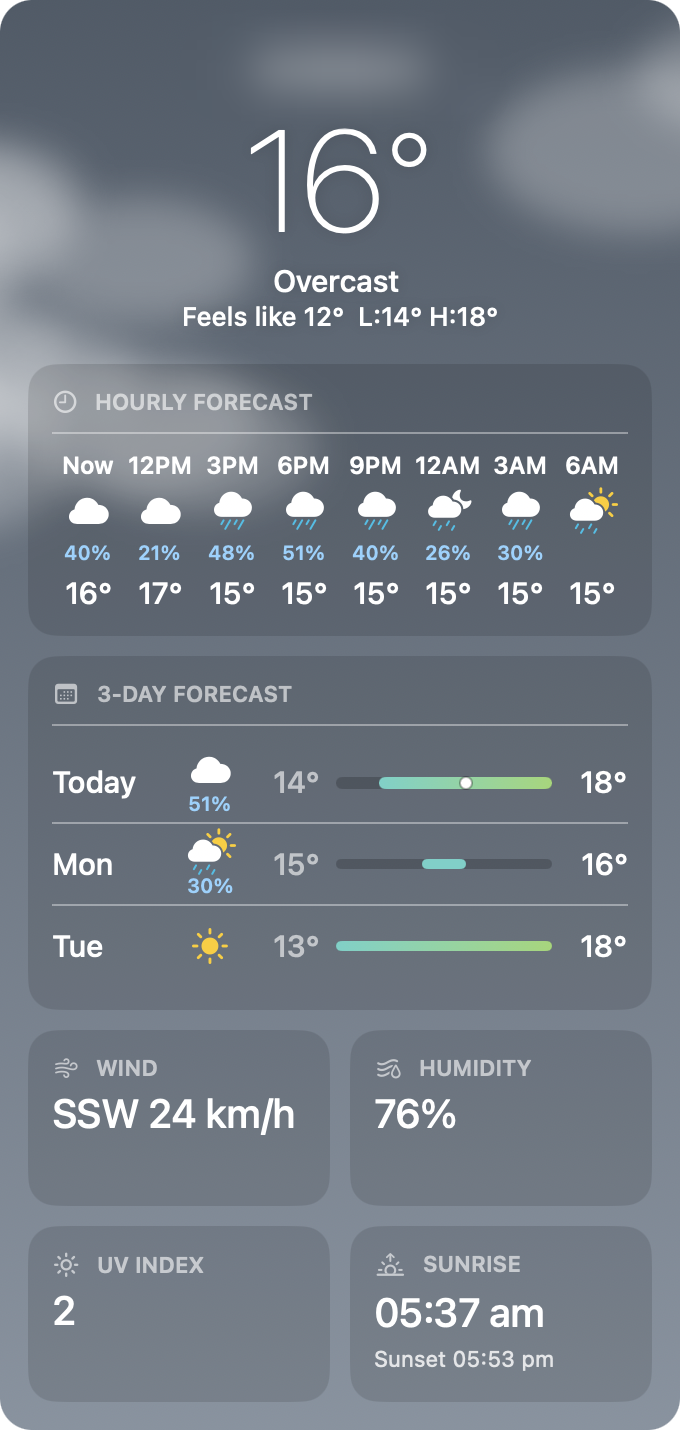
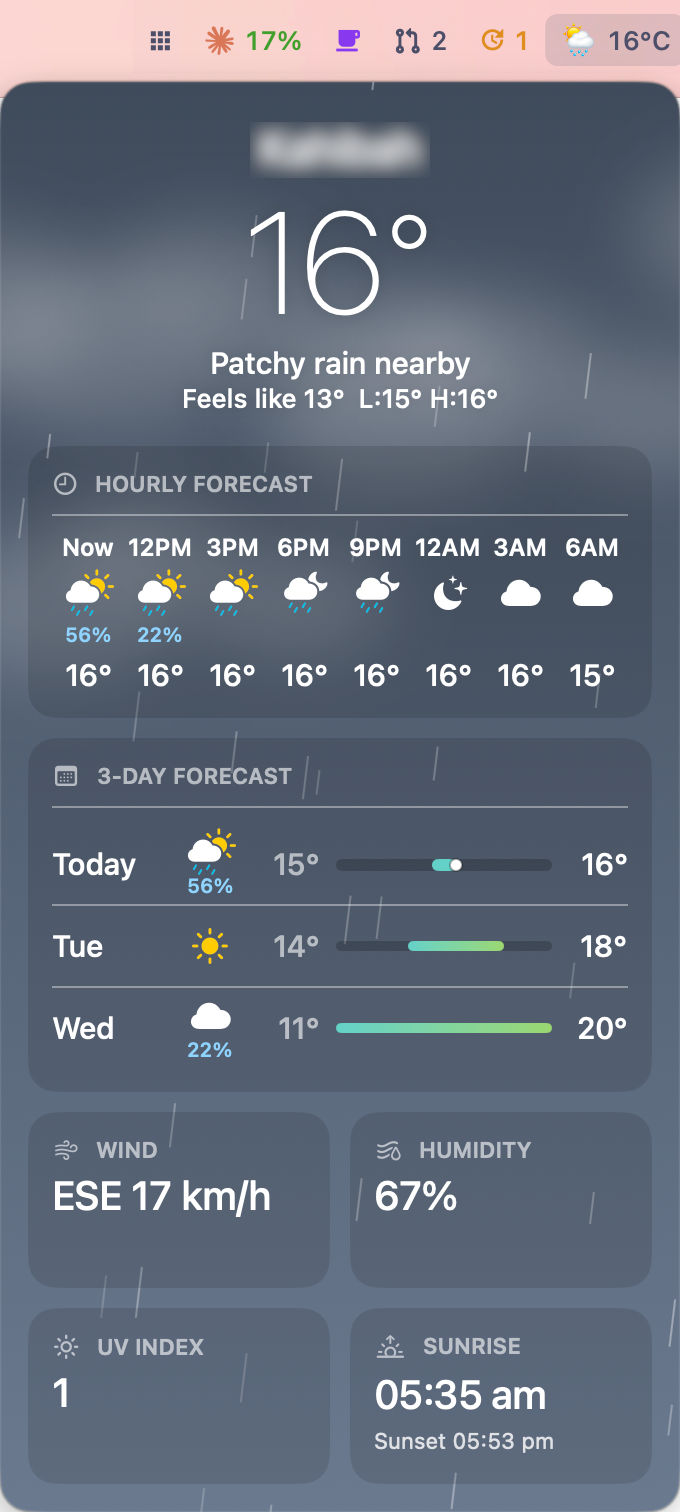
Light the pill of the open popup, even out the gaps between pills, and reshoot the README
While a popup is open, its pill has a soft fill, as a macOS menu bar
item has, so it is clear which pill the popup belongs to.

The gaps between the right-hand pills were not all the same. A label
took its advance width, so a tabular digit such as "1" and the weather
emoji added empty space. The status gauge's box was wider than its
ring. Labels are now sized by their ink, the weather emoji is the
pill's icon, and the gauge's pill fits its ring. With `weather = icon`
the weather pill now shows only its emoji.

The README screenshots show the new panels. The wi-fi and battery
shots are gone, because the status popup replaces them, and the
activity popup has a shot of its own. Private names are blurred.

diff --git a/helper/bar/bar.swift b/helper/bar/bar.swift
@@ -1884,8 +1884,8 @@ func fetchWeather(_ coordinate: CLLocationCoordinate2D?) {
         DispatchQueue.main.async {
             weatherReport = report
             set("weather") {
-                $0.icon = ""
-                $0.label = "\(weatherEmoji(report.code, night: report.night)) \(report.temp)°C"
+                $0.icon = weatherEmoji(report.code, night: report.night)
+                $0.label = "\(report.temp)°C"
             }
             if openPopup == "weather" { refreshPopup() }
         }
@@ -1927,6 +1927,7 @@ final class PopupWindow: NSWindow {
 
 var popupWindow: PopupWindow?
 var openPopup: String? // which bar item owns it
+weak var popupOwner: BarSurface? // the bar that shows its pill lit
 
 func closePopup() {
     if openPopup == "wifi" || openPopup == "status" { stopHotspotBrowse() }
@@ -1937,6 +1938,8 @@ func closePopup() {
     popupShownRows = []
     popupSelection = nil
     openPopup = nil
+    popupOwner?.view.needsDisplay = true
+    popupOwner = nil
 }
 
 // rows are rebuilt, not patched: the content is cheap to regenerate and a
@@ -2103,6 +2106,8 @@ func showPanel(_ name: String, _ view: AnyView, under anchor: NSRect, on surface
     }
     popupWindow = window
     openPopup = name
+    popupOwner = surface
+    surface.view.needsDisplay = true
     setPopupKeys(!popupShownRows.isEmpty)
 }
 
@@ -4178,8 +4183,7 @@ final class BarView: NSView {
         let appleFont = nerdFont("Bold", 15)
         let appleW = inkBox(appleGlyph, appleFont).width + pillPad * 2
         let apple = NSRect(x: padLeft, y: (barHeight - pillHeight) / 2, width: appleW, height: pillHeight)
-        palette.itemBG.setFill()
-        NSBezierPath(roundedRect: apple, xRadius: radius, yRadius: radius).fill()
+        fillPill(apple, "apple")
         drawIcon(appleGlyph, appleFont, palette.accent, centeredIn: apple)
         appleRect = NSRect(x: apple.minX, y: 0, width: appleW, height: barHeight)
 
@@ -4237,8 +4241,7 @@ final class BarView: NSView {
             let textW = advance(model.frontApp, appFont)
             let pill = NSRect(x: bracket.maxX + leftGap, y: (barHeight - pillHeight) / 2,
                               width: textW + pillPad * 2, height: pillHeight)
-            palette.itemBG.setFill()
-            NSBezierPath(roundedRect: pill, xRadius: radius, yRadius: radius).fill()
+            fillPill(pill, "appmenu")
             draw(model.frontApp, appFont, palette.accent, centeredIn: pill)
             appPillRect = pill
             leftEdge = pill.maxX
@@ -4264,16 +4267,17 @@ final class BarView: NSView {
             guard let item = rightItems[name], item.drawing else { continue }
             if let gauge = item.gauge {
                 let side = pillHeight - 2
-                let pill = NSRect(x: cursor - side - pillPad * 2, y: (barHeight - pillHeight) / 2,
-                                  width: side + pillPad * 2, height: pillHeight)
+                // the ring's ink is 0.89 of the gauge's side, so trim the rest from the pill
+                let ink = side * 0.89
+                let pill = NSRect(x: cursor - ink - pillPad * 2, y: (barHeight - pillHeight) / 2,
+                                  width: ink + pillPad * 2, height: pillHeight)
                 let hitMaxX = cursor == bounds.maxX - padLeft ? bounds.maxX : pill.maxX + rightGap / 2
                 let hitArea = NSRect(x: pill.minX - rightGap / 2, y: 0,
                                      width: hitMaxX - pill.minX + rightGap / 2, height: bounds.height)
                 NSColor.clear.clickable.setFill()
                 hitArea.fill()
-                palette.itemBG.setFill()
-                NSBezierPath(roundedRect: pill, xRadius: radius, yRadius: radius).fill()
-                gauge.draw(in: pill.insetBy(dx: pillPad, dy: 1),
+                fillPill(pill, name)
+                gauge.draw(in: pill.insetBy(dx: pillPad - (side - ink) / 2, dy: 1),
                            colors: .init(ink: palette.label, low: palette.red, charging: palette.green))
                 itemRects.append((name, pill, hitArea))
                 cursor = pill.minX - rightGap
@@ -4283,20 +4287,14 @@ final class BarView: NSView {
                 .filter { !($0.icon.isEmpty && $0.label.isEmpty) }
             guard !parts.isEmpty else { continue }
             let labelFont = chipFont
-            // An icon-only pill is sized and centred on the glyph's INK, so
-            // a lopsided side bearing cannot push it off centre. A pill with
-            // a label flows icon-then-text, and the gap between them exists
-            // only when both do — the weather pill has no icon (its glyph
-            // lives in the label) and inherited the gap anyway, which is the
-            // 7 px it sat right of centre by.
+            // Icons and labels are sized by their ink, so a side bearing
+            // cannot change the gap to the next pill.
             let sizes = parts.map { part -> (icon: CGFloat, gap: CGFloat, label: CGFloat) in
                 let hasIcon = !part.icon.isEmpty
-                // icon-only is ignored where there is no icon: the weather pill
-                // keeps its glyph in the label, so suppressing it draws nothing
                 let hasLabel = !part.label.isEmpty && !(hasIcon && iconOnly.contains(name))
                 return (hasIcon ? inkBox(part.icon, iconFont).width : 0,
                         hasIcon && hasLabel ? 7 : 0,
-                        hasLabel ? advance(part.label, labelFont) : 0)
+                        hasLabel ? inkBox(part.label, labelFont).width : 0)
             }
             let partGap: CGFloat = 10
             let width = pillPad * 2 + partGap * CGFloat(parts.count - 1)
@@ -4312,15 +4310,15 @@ final class BarView: NSView {
                                  width: hitMaxX - pill.minX + rightGap / 2, height: bounds.height)
             NSColor.clear.clickable.setFill()
             hitArea.fill()
-            palette.itemBG.setFill()
-            NSBezierPath(roundedRect: pill, xRadius: radius, yRadius: radius).fill()
+            fillPill(pill, name)
             var x = pill.minX + pillPad
             for (part, size) in zip(parts, sizes) {
                 if size.icon > 0 {
                     drawIcon(part.icon, iconFont, part.iconColor ?? palette.label,
                              centeredIn: NSRect(x: x, y: pill.minY, width: size.icon, height: pill.height))
                 }
-                let labelX = x + size.icon + size.gap
+                // a tabular digit such as "1" has empty space on each side
+                let labelX = x + size.icon + size.gap - (size.label > 0 ? inkBox(part.label, labelFont).minX : 0)
                 if size.label > 0, part.label == item.label, !item.tickerText.isEmpty, !tickerShown {
                     ticker.show(item.label, item.tickerText, item.tickerTail, font: labelFont,
                                 colors: (item.labelColor ?? palette.label, palette.yellow),
@@ -4338,6 +4336,15 @@ final class BarView: NSView {
         if !tickerShown { ticker.hide() }
     }
 
+
+    // The pill of the open popup gets a soft fill, as a macOS menu bar item does.
+    private func fillPill(_ pill: NSRect, _ name: String) {
+        palette.itemBG.setFill()
+        NSBezierPath(roundedRect: pill, xRadius: radius, yRadius: radius).fill()
+        guard openPopup == name, popupOwner === surface else { return }
+        palette.label.withAlphaComponent(0.16).setFill()
+        NSBezierPath(roundedRect: pill.insetBy(dx: -2, dy: 0), xRadius: 6, yRadius: 6).fill()
+    }
 
     // Tracking areas, not a poll and not a global monitor: a global
     // monitor stops delivering once this app is itself active, which is

diff --git a/README.md b/README.md
@@ -161,7 +161,7 @@ The gauge replaces the separate wi-fi and battery pills by default.
 `wifi = icon` or `battery = time` in `bar-pills.conf` brings either one
 back, and `status = hide` removes the gauge.
 
-![Left end of the bar: the Apple menu, workspace chips with the apps on each workspace, and the front app's name](docs/screenshots/bar-left.png)
+<img src="docs/screenshots/bar-left.png" width="760" alt="Left end of the bar: the Apple menu, workspace chips with the apps on each workspace, the front app's name, and the song playing in Music">
 
 Left to right:
 
@@ -188,9 +188,9 @@ Left to right:
   Click the title to open Music. Scroll on it to skip to the next or
   previous track.
 
-![The Apple menu popup under its pill: About This Mac, System Information, System Settings, App Store, Recent Items, Force Quit, Sleep, Restart, Shut Down, Lock Screen, Log Out, and Omacchiato's theme row naming the current theme at the bottom](docs/screenshots/popup-apple.png)
+<img src="docs/screenshots/popup-apple.png" width="220" alt="The Apple menu popup under its lit pill, drawn as a macOS menu: About This Mac, System Information, System Settings, App Store, Recent Items with a submenu chevron, Force Quit, Sleep, Restart, Shut Down, Lock Screen, Log Out, and Omacchiato's theme row naming the current theme at the bottom">
 
-![Right end of the bar: the menu bar apps grid, the Claude usage pill at 5%, the keep-awake cup, the GitHub pill with two open pull requests, the update pill with three new commits, the weather at 16°C under cloud, the status gauge with a nearly full ring and four lit dots, the date and time, and the activity pill](docs/screenshots/bar-right.png)
+<img src="docs/screenshots/bar-right.png" width="620" alt="Right end of the bar: the menu bar apps grid, the Claude usage pill at 17%, the keep-awake cup, the GitHub pill with two open pull requests, the update pill with one new commit, the weather at 16°C, the status gauge with a nearly full ring and three lit dots, the date and time, and the activity pill">
 
 - **Menu bar apps**: the grid pill lists the third-party apps that have
   an icon in the hidden macOS menu bar, with each app's own icon.
@@ -249,19 +249,20 @@ Left to right:
 
 <table>
   <tr>
-    <td valign="top"><img src="docs/screenshots/popup-menubar.png" alt="The menu bar apps popup: one row per third-party icon in the hidden menu bar, sorted by app name, two OneDrive icons told apart by their own labels, an opens app note on the rows whose icon the notch hides, and a Show menu bar row with the ⌃F8 shortcut"></td>
-    <td valign="top"><img src="docs/screenshots/popup-wifi.png" alt="The wi-fi popup: the network name, the IP and the router (blacked out here), signal -43 dBm rated excellent, link 2401 Mbps on WPA2, channel 48 on 5 GHz at 160 MHz, then the networks in range with a tick on the one in use, then the iPhones that can share a hotspot with their battery (names blacked out here), and a network settings row"></td>
+    <td valign="top"><img src="docs/screenshots/popup-menubar.png" width="300" alt="The menu bar apps popup: one row per third-party icon in the hidden menu bar with the app's own icon, sorted by name, two OneDrive icons told apart by their account names, and an open-app mark on the rows whose icon the notch hides"></td>
+    <td valign="top"><img src="docs/screenshots/popup-status.png" width="320" alt="The status popup: the gauge drawn large with 99% charging, the wi-fi switch, tiles for power, battery health, signal, link, channel and address, the networks in range with a tick on the one in use, the iPhones that can share a hotspot with their battery, and rows for battery and wi-fi settings. Network names, the address and phone names are blurred here"></td>
   </tr>
   <tr>
-    <td valign="top"><img src="docs/screenshots/popup-battery.png" alt="The battery popup: the title row carrying a charge bar and 63%, on battery with 4h 25m left, low power mode, 9.5 W draw, health 99%, 50 cycles, and a Battery Settings row"></td>
-    <td valign="top"><img src="docs/screenshots/popup-clock.png" alt="The clock popup: the month and its week number, a grid of days with today in a filled circle, and today's remaining events under it, each with the colour of the calendar it belongs to"></td>
+    <td valign="top"><img src="docs/screenshots/popup-clock.png" width="340" alt="The clock popup: today's weekday and date, the month grid with today in a red circle, today's all-day events, and a timeline of today's events from the current hour, each in the colour of its calendar. Event names are blurred here"></td>
+    <td valign="top"><img src="docs/screenshots/popup-activity.png" width="320" alt="The activity popup: CPU at 14% with user and system shares, a one-minute load graph and a bar per core, memory at 42 GB of 64 GB with normal pressure, the network rates with a graph, the apps that use the most CPU with their memory, and rows that open Activity Monitor and btop"></td>
   </tr>
 </table>
 
-<img src="docs/screenshots/popup-weather.png" width="340" alt="The weather popup over a grey, cloudy sky: the place (blurred here), 16° and overcast, feels like 12° with a low of 14° and a high of 18°, an hourly forecast in 3-hour steps with the chance of rain, a 3-day forecast with a temperature bar for each day, and tiles for wind, humidity, UV index, sunrise and sunset">
+<img src="docs/screenshots/popup-weather.png" width="340" alt="The weather popup over a grey, rainy sky: the place (blurred here), 16° with patchy rain nearby, feels like 13° with a low of 15° and a high of 16°, an hourly forecast in 3-hour steps with the chance of rain, a 3-day forecast with a temperature bar for each day, and tiles for wind, humidity, UV index, sunrise and sunset">
 
 A popup stays open while the pointer is anywhere in the bar or the
-popup, and closes when it is in neither. Click paths never touch the
+popup, and closes when it is in neither. While it is open, its pill
+has a soft fill, as a macOS menu bar item has. Click paths never touch the
 network: each pill fetches on a timer into the model and renders from
 that.
 
@@ -310,8 +311,8 @@ popup rows, and the bar draws the result. The format is under
 
 <table>
   <tr>
-    <td valign="top"><img src="docs/screenshots/popup-claude.png" alt="The AI usage popup: a header per provider with its logo, its plan in small quiet type, and its usage and reset time; the Claude section open with one row per window, each a bar with a tick at the time elapsed; Codex and Copilot closed; and a closed section for the last seven days at API prices"></td>
-    <td valign="top"><img src="docs/screenshots/popup-github.png" width="540" alt="The GitHub pull requests popup: open PRs grouped by repository with a count per group, one row each with a clock mark for waiting, and a row that opens all pull requests on GitHub"></td>
+    <td valign="top"><img src="docs/screenshots/popup-claude.png" width="340" alt="The AI usage popup: the Claude section open with its logo and plan, three rings for the session, weekly and Fable windows, each with its percent and the time until it resets; Codex and Copilot closed with their usage; and the last seven days as a bar chart of tokens per day and model, with an average line and the cost at API prices"></td>
+    <td valign="top"><img src="docs/screenshots/popup-github.png" width="380" alt="The GitHub pull requests popup: two open PRs, a bar that counts them by stage, the In Review group with a row per PR that shows its title, repository and number, lines added and removed, its checks and its age, and a row that opens all pull requests on GitHub"></td>
   </tr>
 </table>
 

diff --git a/docs/bar.md b/docs/bar.md
@@ -20,8 +20,7 @@ battery = icon
 
 `hide` also skips the pill's provider, so hiding `weather` stops the
 wttr.in fetches and hiding `bluetooth` never touches the Bluetooth
-grant. `icon` drops the label and keeps the glyph; the weather pill
-ignores it, because its glyph is part of the label. `volume = muted`
+grant. `icon` drops the label and keeps the glyph. `volume = muted`
 draws the volume pill only while the output device is muted or at
 zero, as a red icon, the same way the microphone pill works.
 `battery = time` shows only the battery icon on AC power; on battery
